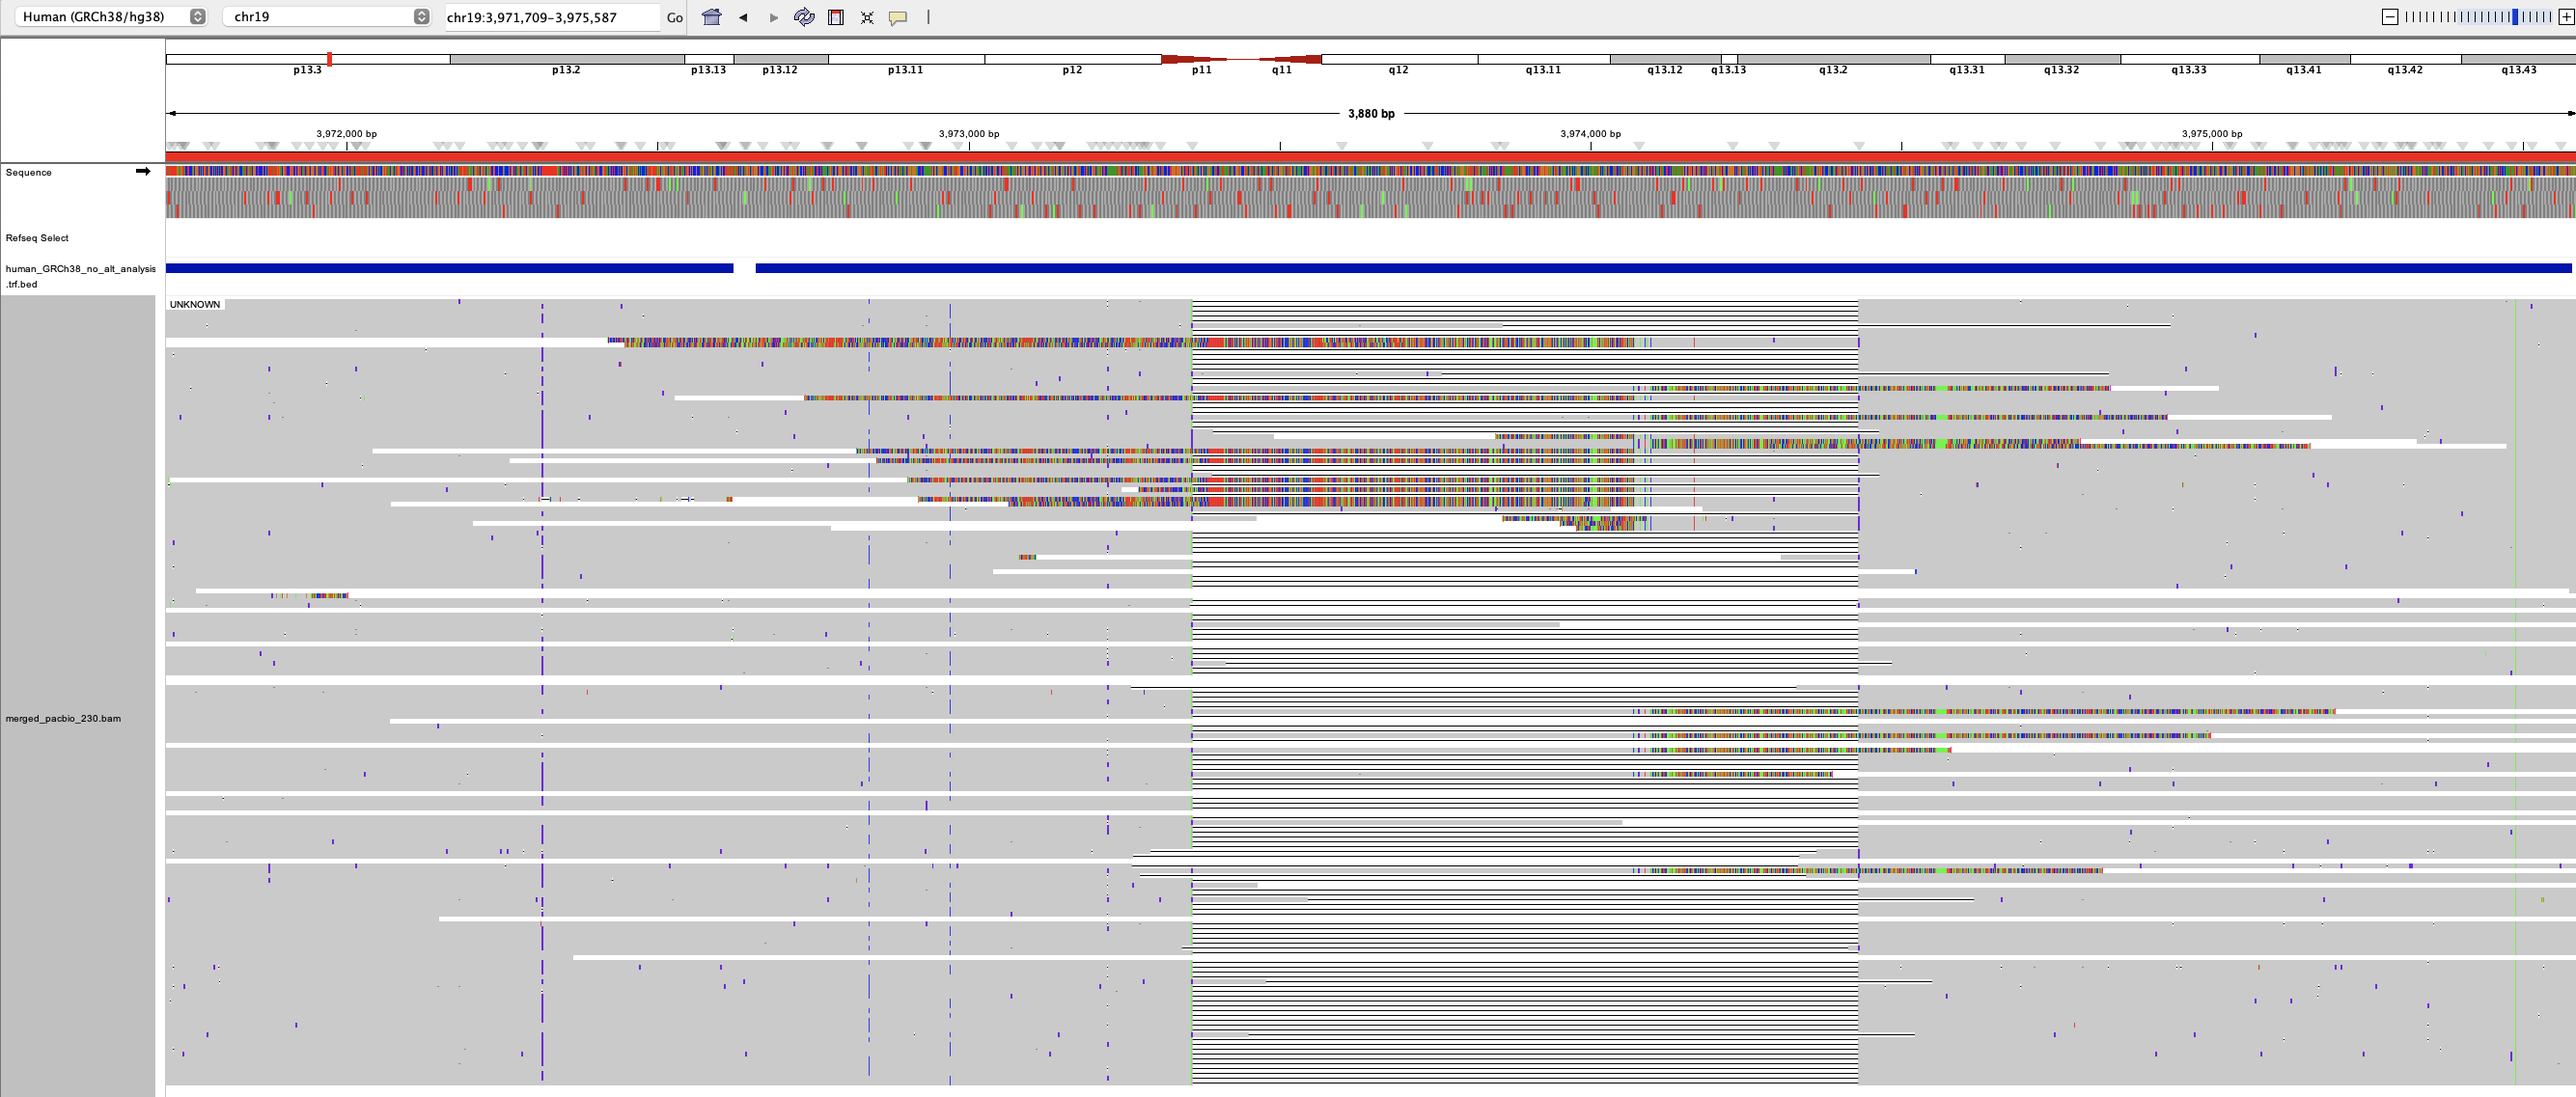
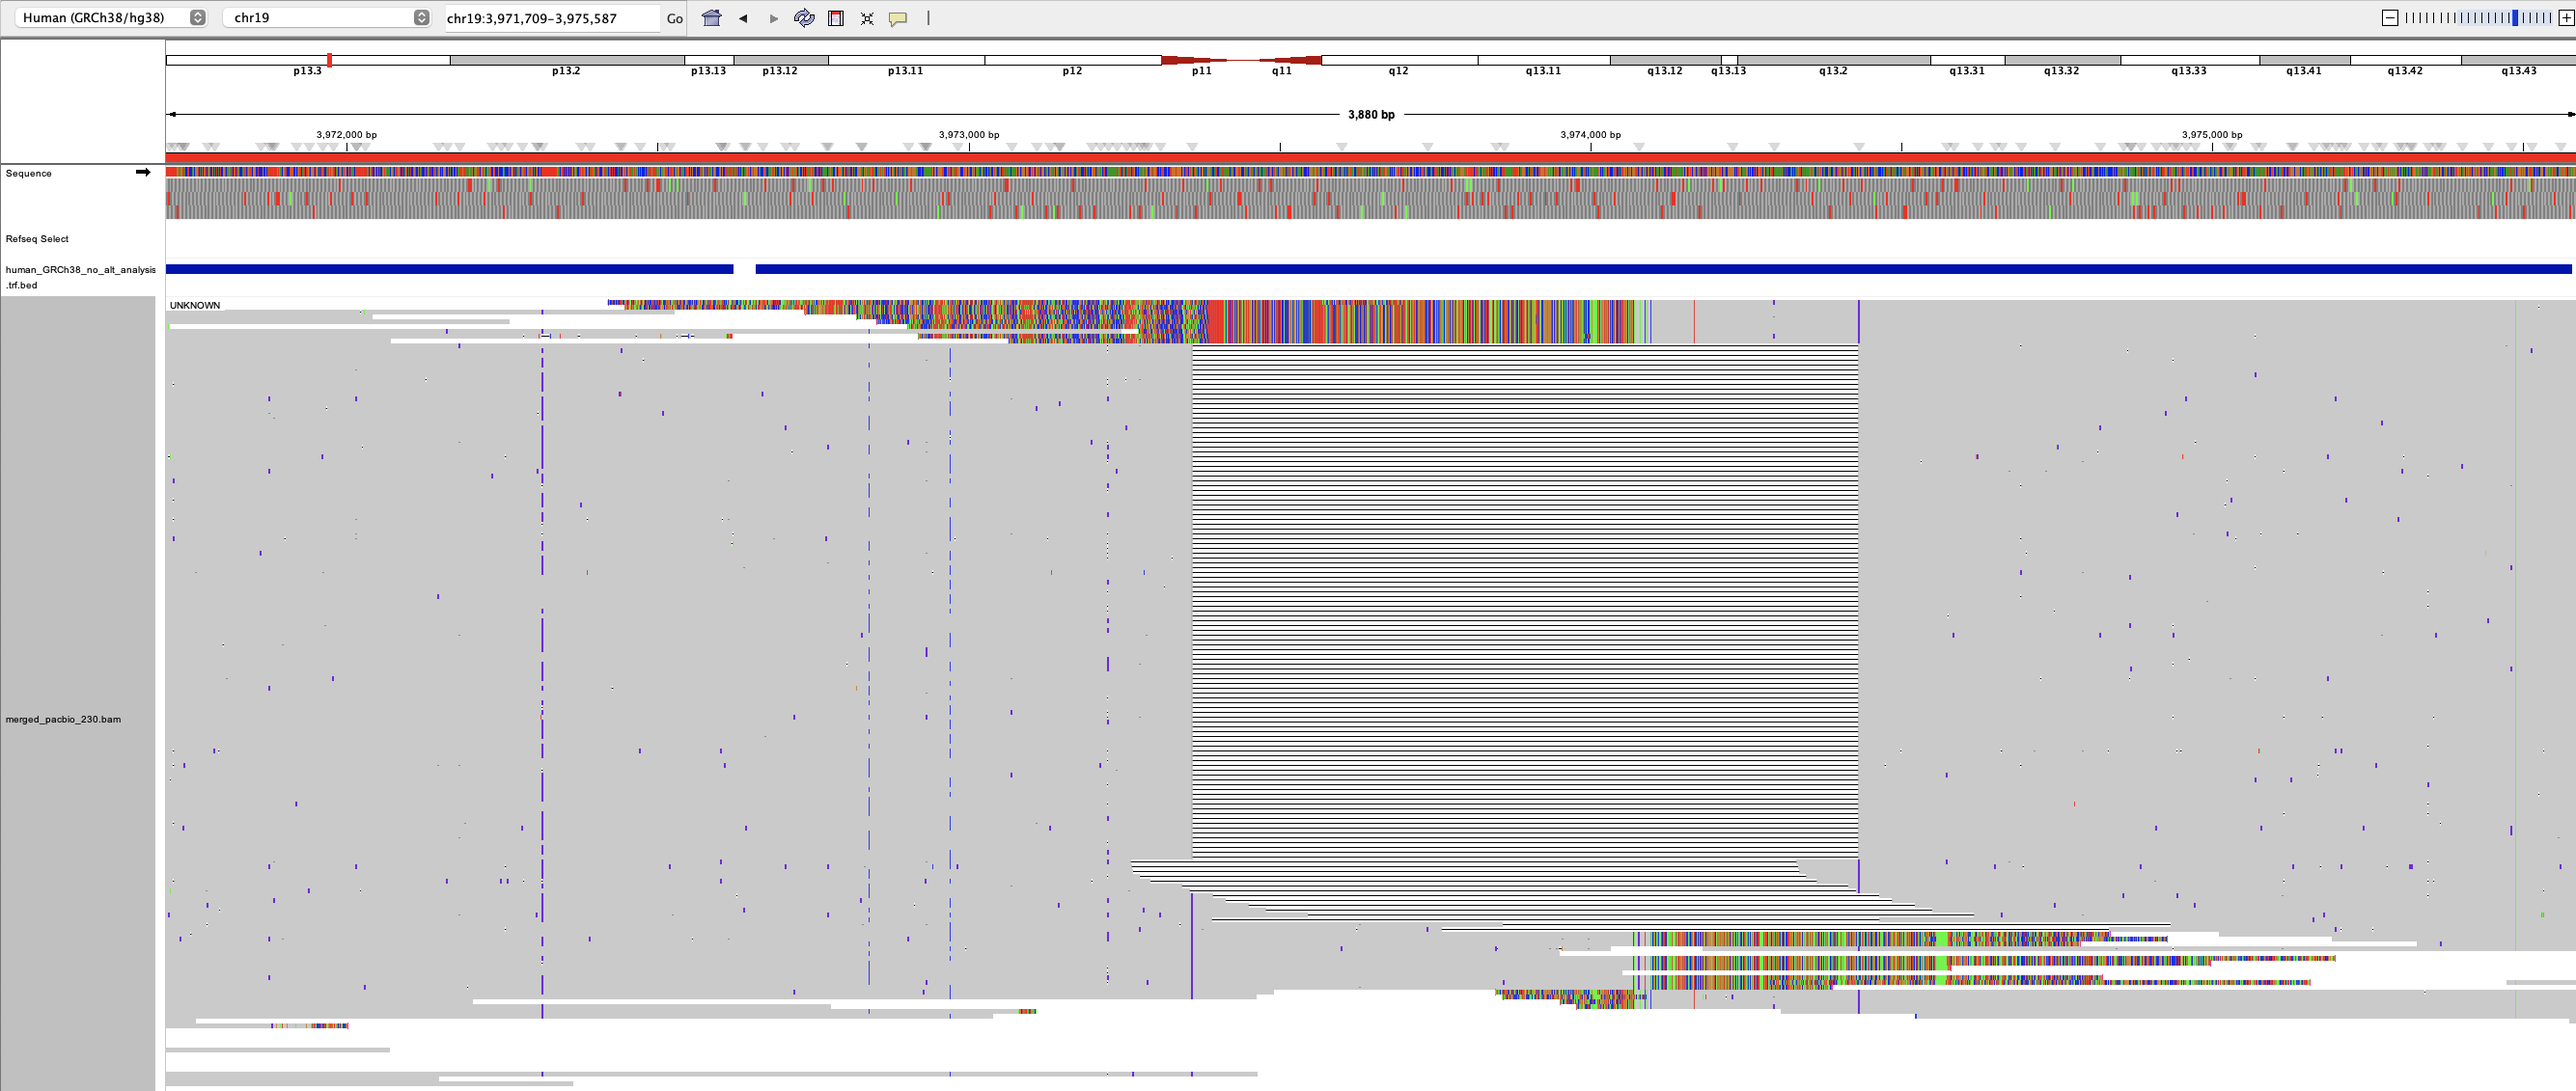
fixes

diff --git a/README.md b/README.md
@@ -183,9 +183,19 @@ Then, we load the FASTA into Jalview and use MAFFT with preset FFT-NS-1 (Speed o
 
 ![](figures/44.png)
 
+This TR has no 5mC marks.
+
+
 ### chr1:16563818-16567204
 
 ![](figures/49.png)
+
+This TR seems to be methylated, and to have >=2 distinct 5mC patterns (gray: FWD strand, green: REV strand):
+
+![](figures/52.png)
+
+Zoom in:
+
 ![](figures/39.png)
 
 We extract all alignments (spanning and non-spanning) with the "Export alignments" feature of IGV. Then, we build a POA graph with abPOA and default parameters:
@@ -198,6 +208,10 @@ We extract all alignments (spanning and non-spanning) with the "Export alignment
 
 ![](figures/50.png)
 
+This TR seems to be methylated with a consistent pattern, which seems to diverge in the clipped alignments (gray: FWD strand, green: REV strand):
+
+![](figures/53.png)
+
 We extract all alignments (spanning and non-spanning) with the "Export alignments" feature of IGV. Then, we build a POA graph with abPOA and default parameters:
 
 .............
@@ -208,6 +222,10 @@ We extract all alignments (spanning and non-spanning) with the "Export alignment
 ### chr19:3988584-3990151
 
 ![](figures/51.png)
+
+This TR seems to be methylated with a consistent pattern, which seems to diverge in the clipped alignments (gray: FWD strand, green: REV strand):
+
+![](figures/54.png)
 
 We extract all alignments (spanning and non-spanning) with the "Export alignments" feature of IGV. Then, we build a POA graph with abPOA and default parameters:
 
